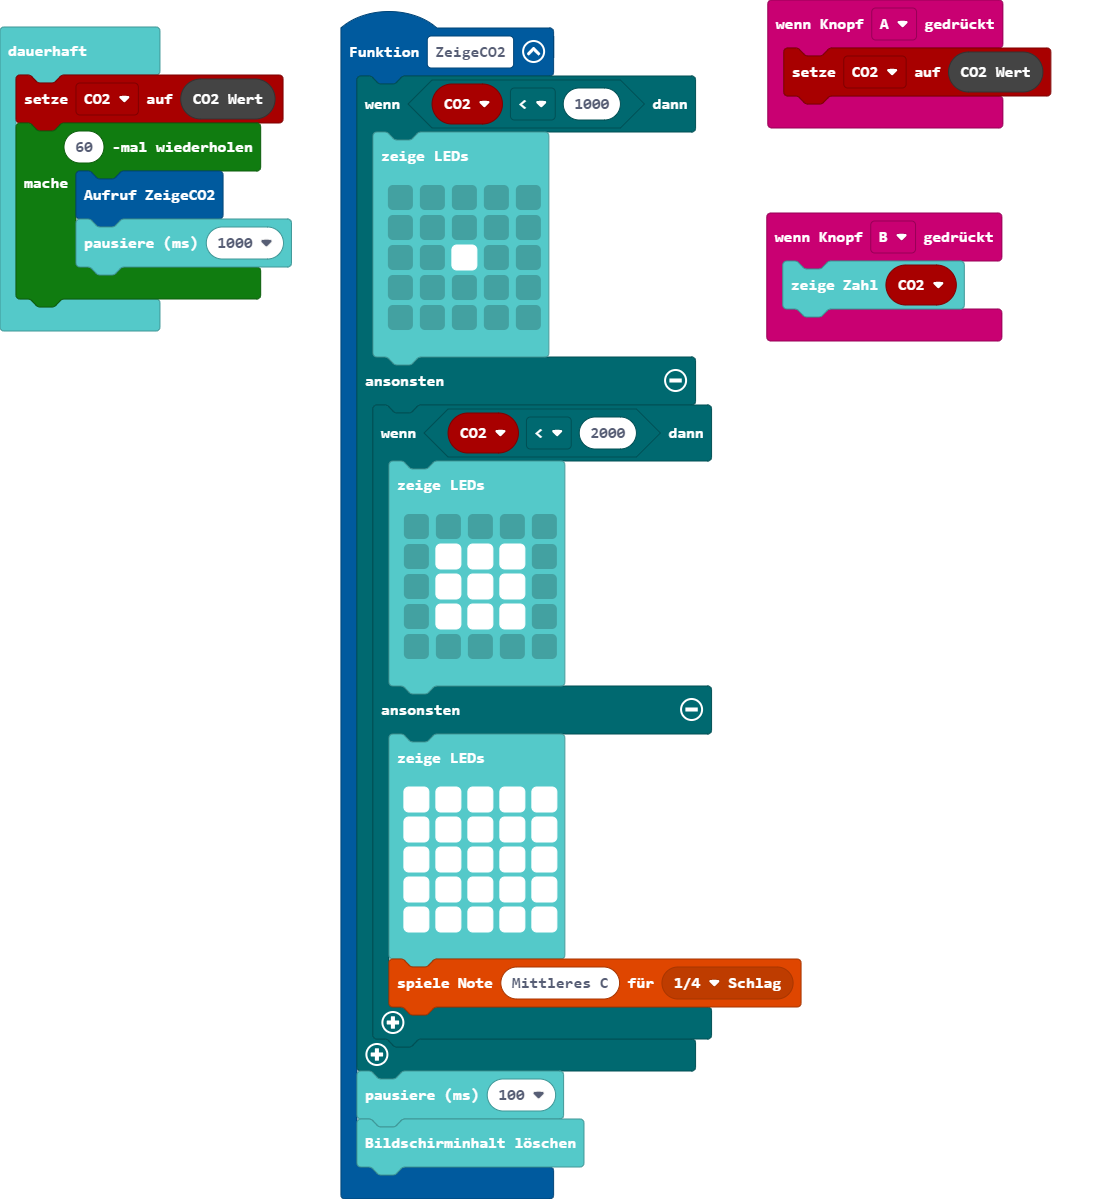
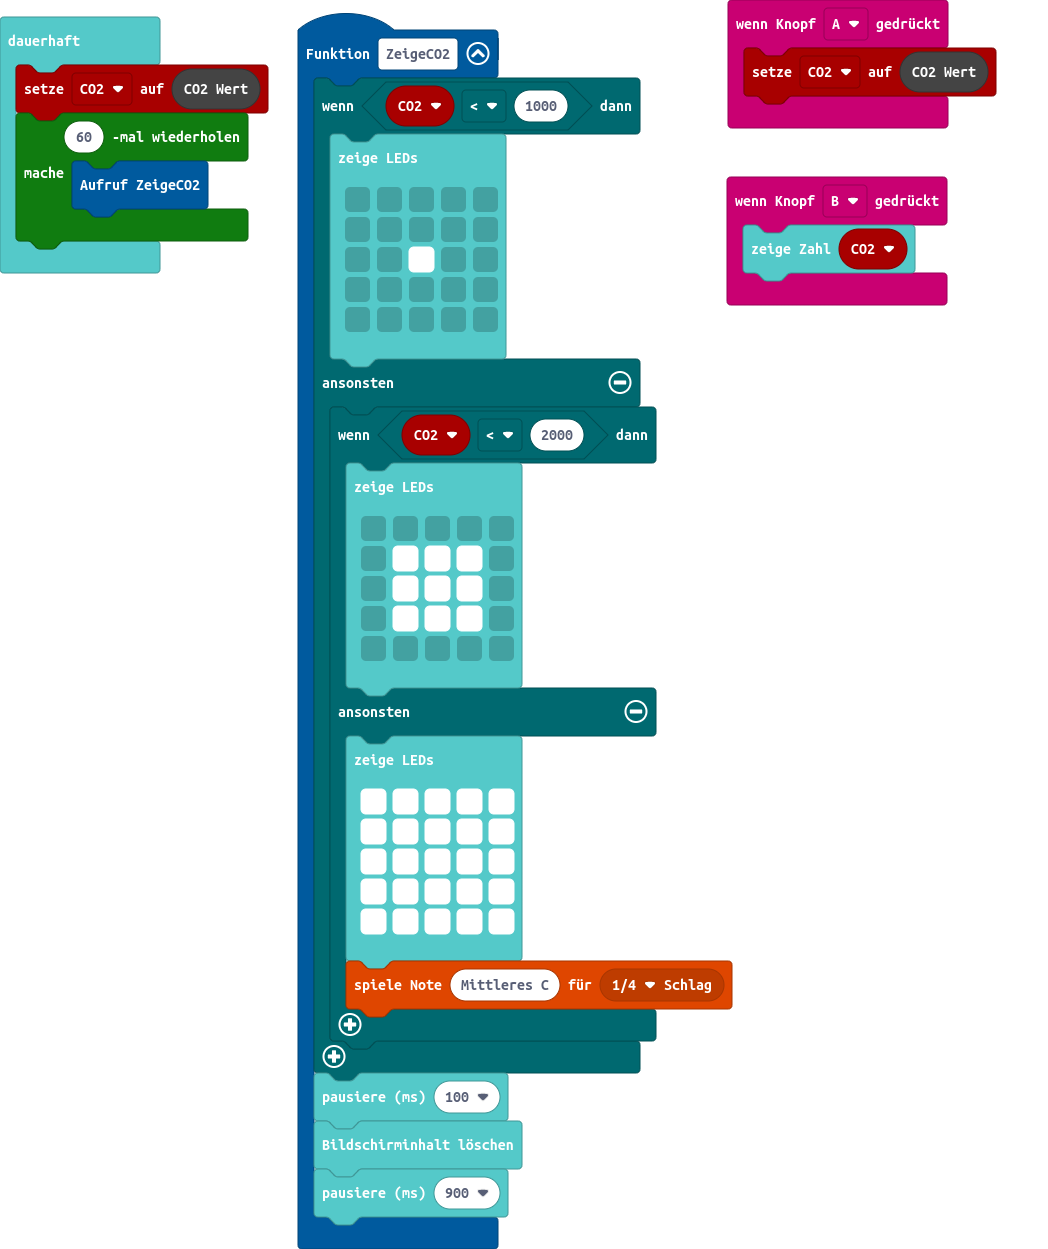
Aktualisiere main.blocks, main.ts

Changed region(s): [[0.0, 0.0, 0.7328, 1.0], [0.6718, 0.0, 0.9466, 0.3086]]

diff --git a/main.ts b/main.ts
@@ -36,11 +36,11 @@ function ZeigeCO2 () {
     }
     basic.pause(100)
     basic.clearScreen()
+    basic.pause(900)
 }
 basic.forever(function () {
     CO2 = SCD30.readCO2()
     for (let index = 0; index < 60; index++) {
         ZeigeCO2()
-        basic.pause(1000)
     }
 })
